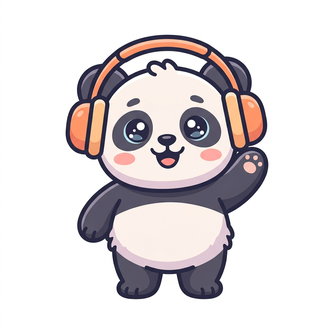
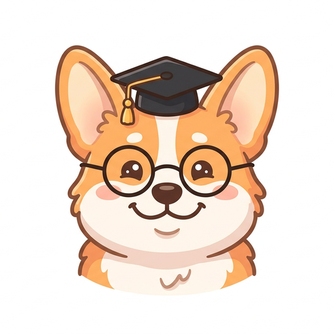
feat(chinese): mascot becomes Kong Kong the corgi (Dr. Dog)
- 熊貓吉祥物換成用戶家裡的柯基空空：博士帽＋圓眼鏡，無尾巴
- 圓形頭像用留邊版本，避免耳朵被裁
- 平台 icon 同步換成空空，catalog ?v=2
- make_images.py 加 AVATARS（頭像要留白，不套「填滿畫面」的 prompt）

diff --git a/games/chinese/pth-match/index.html b/games/chinese/pth-match/index.html
@@ -26,7 +26,7 @@
     --gap: 8px;
     --pic: clamp(84px, 27vw, 112px);
     --fmin: 148px;             /* 聽發音卡最小寬 */
-    --mascot: 50px;
+    --mascot: 58px;
     --title: 1.2rem;
     --word: clamp(1.05rem, 4.6vw, 1.3rem);
     --pinyin: .7rem;
@@ -265,7 +265,7 @@
 <body class="choosing">
 
   <div id="chooser" class="chooser">
-    <img src="images/mascot.png" alt="熊貓吉祥物">
+    <img src="images/kongkong.png" alt="空空（狗博士）">
     <h2>你是用哪一種？</h2>
     <p>選好就開始玩</p>
     <div class="opts">
@@ -279,7 +279,7 @@
   <div class="bg-blob b3"></div>
 
   <header>
-    <span class="mascot"><img src="images/mascot.png" alt="熊貓吉祥物"></span>
+    <span class="mascot"><img src="images/kongkong.png" alt="空空（狗博士）"></span>
     <h1>普通話配對</h1>
     <p>聽一聽 · 配一配 · 學普通話</p>
   </header>
@@ -638,5 +638,7 @@ buildMatch();
 </script>
 </body>
 </html>
+
+
 
 

diff --git a/js/catalog.js b/js/catalog.js
@@ -34,7 +34,7 @@ const GAMES = [
     level: "lower",
     blurb: "聽標準普通話，把詞語和圖片配成對。",
     maxScore: 4,
-    icon: "assets/games/zh-pth.png?v=1",
+    icon: "assets/games/zh-pth.png?v=2",
     entry: "games/chinese/pth-match/index.html",
     orientation: "any",
   },
@@ -242,3 +242,4 @@ function gameMax(game) {
   if (game.questions && game.questions.length) return game.questions.length;
   return game.maxScore;
 }
+

diff --git a/games/chinese/pth-match/make_images.py b/games/chinese/pth-match/make_images.py
@@ -72,12 +72,41 @@ ITEMS = {
     "shuye": ("a single green tree leaf with visible veins, autumn-free, bright green", "樹葉"),
 }
 
+# 吉祥物／icon：圓形頭像用，所以主體要留邊、不要頂滿
+AVATARS = {
+    "kongkong": (
+        "head and upper body portrait of a cute chubby corgi puppy with no tail, "
+        "orange and white fur, big upright ears, wearing a small black graduation cap tilted on the head "
+        "and round glasses, cheerful open-mouth smile, waving one front paw, "
+        "centred with generous empty margin around the character",
+        "吉祥物（空空，狗博士）",
+    ),
+    "zh-pth-icon": (
+        "head portrait of a cute chubby corgi puppy with no tail, orange and white fur, "
+        "big upright ears, wearing a small black graduation cap tilted on the head and round glasses, "
+        "cheerful smile, centred with generous empty margin around the character",
+        "遊戲 icon（空空）",
+    ),
+}
+
+# 頭像用的 prompt 尾段：不要「填滿畫面」，要留白給圓形裁切
+AVATAR_STYLE = (
+    "cute kawaii children's illustration, flat vector style, thick soft brown outline, "
+    "pastel colours, rounded friendly shapes, plain pure white background, "
+    "no text, no letters, no border"
+)
+
 
 def gen_one(slug: str) -> str:
-    subject, word = ITEMS[slug]
+    if slug in AVATARS:
+        subject, _ = AVATARS[slug]
+        style = AVATAR_STYLE
+    else:
+        subject, _ = ITEMS[slug]
+        style = STYLE
     payload = json.dumps({
         "model": MODEL,
-        "messages": [{"role": "user", "content": f"{subject}, {STYLE}"}],
+        "messages": [{"role": "user", "content": f"{subject}, {style}"}],
     }).encode("utf-8")
     req = urllib.request.Request(
         API,
@@ -114,10 +143,10 @@ def main():
     os.makedirs(OUT_DIR, exist_ok=True)
     args = sys.argv[1:]
     if not args or args[0] == "全部":
-        slugs = list(ITEMS)
+        slugs = list(ITEMS) + list(AVATARS)
     else:
         slugs = args
-    bad = [s for s in slugs if s not in ITEMS]
+    bad = [s for s in slugs if s not in ITEMS and s not in AVATARS]
     if bad:
         sys.exit("不認識的 slug：" + ", ".join(bad))
 
@@ -127,7 +156,8 @@ def main():
         for attempt in (1, 2):
             try:
                 p = gen_one(slug)
-                print(f"[{i}/{len(slugs)}] OK {slug} ({ITEMS[slug][1]}) "
+                label = (ITEMS.get(slug) or AVATARS[slug])[1]
+                print(f"[{i}/{len(slugs)}] OK {slug} ({label}) "
                       f"{os.path.getsize(p)//1024}KB {time.time()-t0:.1f}s", flush=True)
                 ok += 1
                 break
